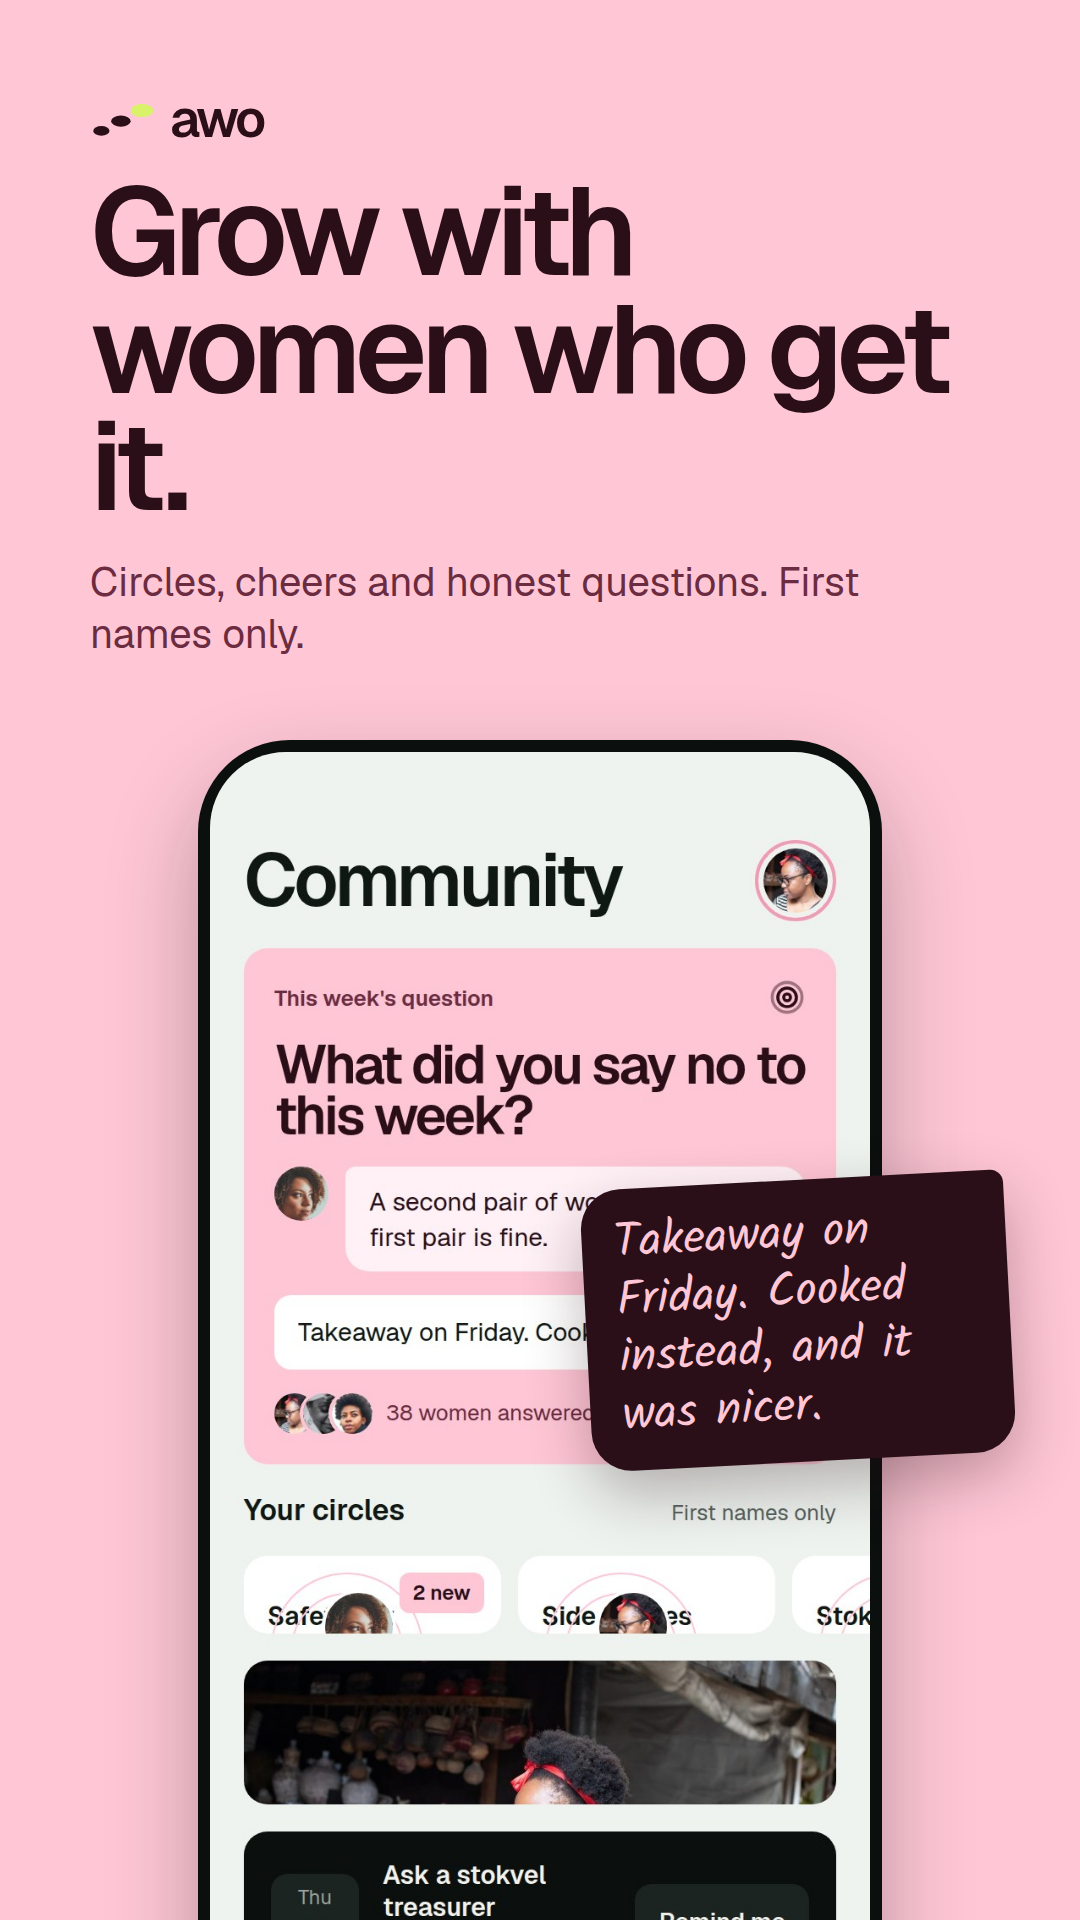
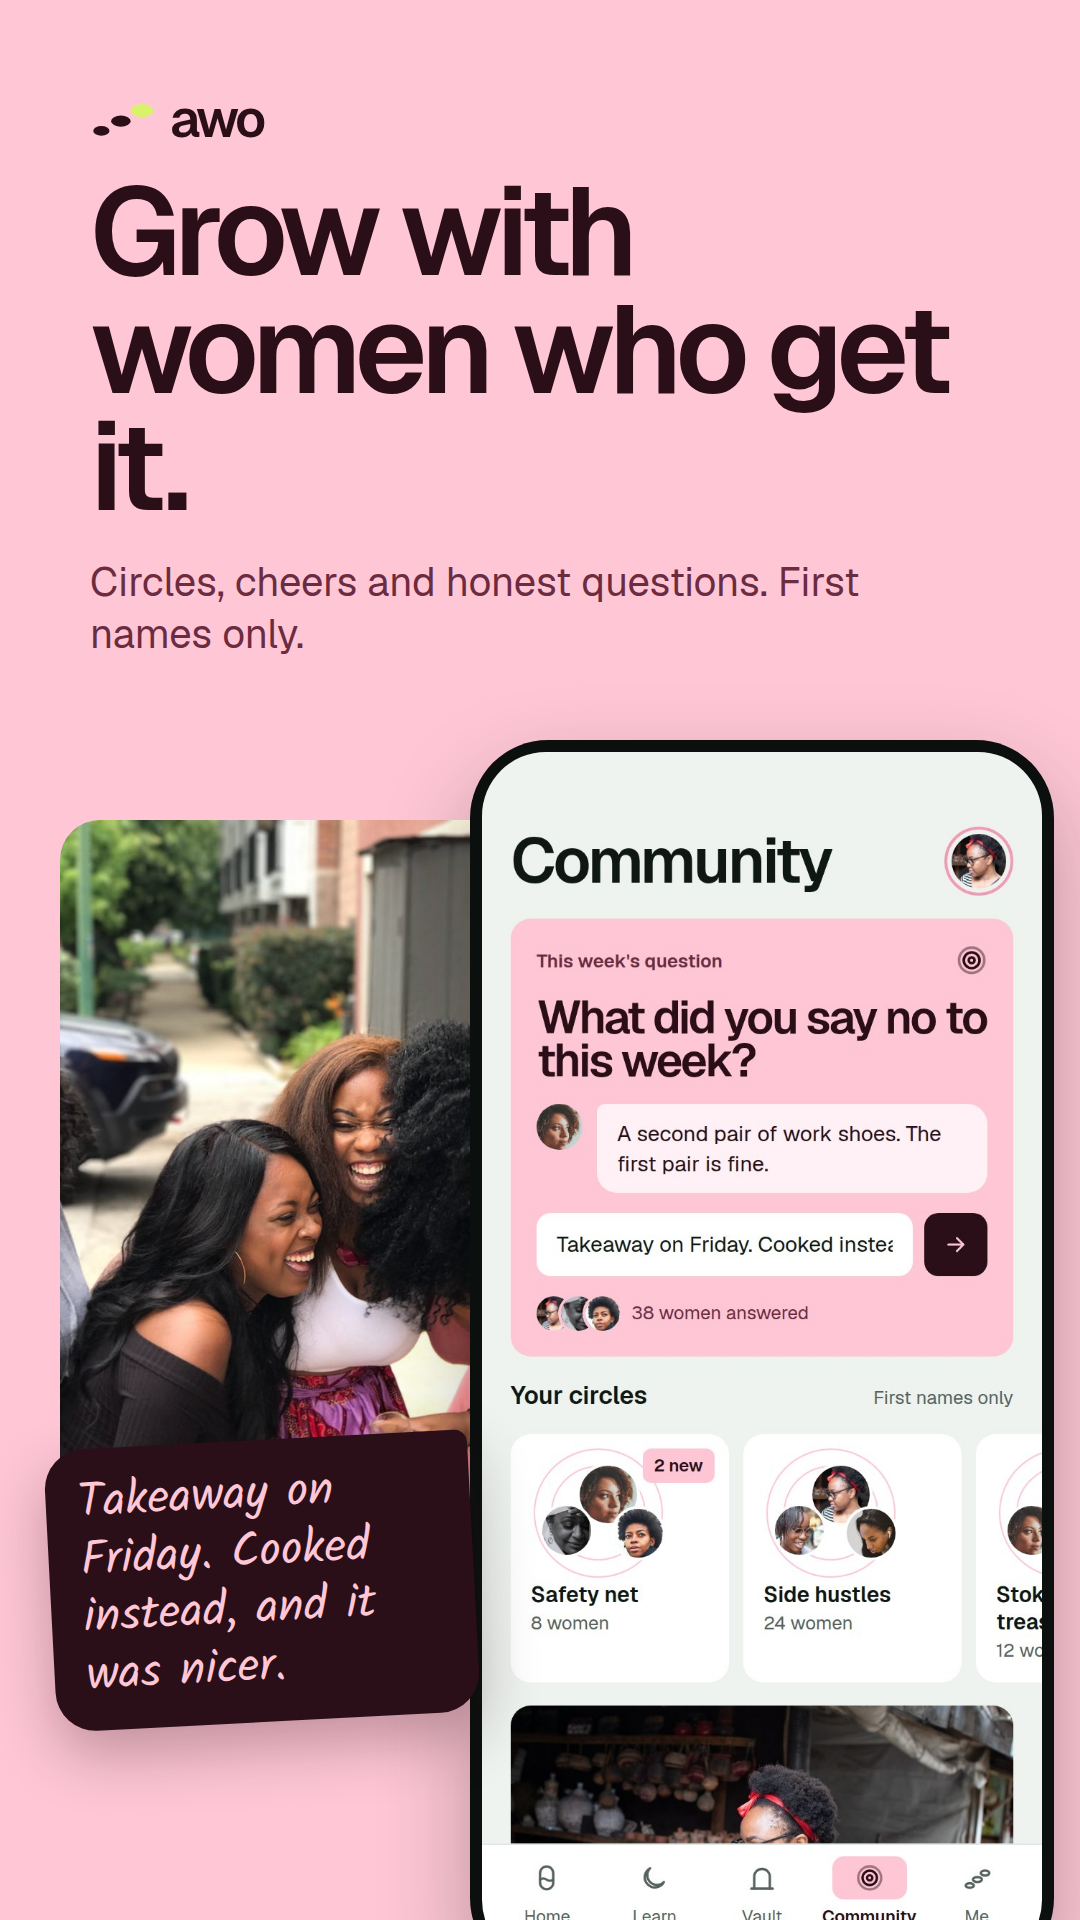
Round 7 marketing: photo-led Community, check-in screenshot, full listing
Adds the Round 3 marketing pieces Ian flagged. Community's store screenshot
now leads with a photo. There is an eighth screenshot for the check-in, and
the listing carries the descriptions, character counts and store rules.
Captures of tall screens no longer squash their sections.

Claude-Session: https://claude.ai/code/session_01DjKBSUnZ7Bfy5fDRc5KkAV

diff --git a/design/round-7/marketing7.py b/design/round-7/marketing7.py
@@ -14,10 +14,10 @@ from brand7 import app_icon, lockup  # noqa: E402
 from screens7 import mark, IMG as IMG7  # noqa: E402,F401
 
 CAPS = {
-    'home': '/_blob/dea500386add2ea29edf312af1e533bd', 'me': '/_blob/98d12ef16b46f90e2fc1a134473e53bc',
-    'learn': '/_blob/8bd5266de4987a831537092e31a8d092', 'vault': '/_blob/69e8bf7aa50a34e03d095eec025e1a74',
-    'community': '/_blob/f45732525d9585201e36b728432660d6', 'ask': '/_blob/ce70f314055c11df2410b014a7b8bc49',
-    'entry': '/_blob/1c34be39cae7eae7ebaa0e16cd349250', 'progress': '/_blob/cc1d7acdf4f9659cf52d325ec96d2659',
+    'home': '/_blob/1fa941cd9884f3e7fea1cd149714b9b1', 'me': '/_blob/e021f8cc79fcae47f5aa3a96e35d3fc9',
+    'learn': '/_blob/8bd5266de4987a831537092e31a8d092', 'vault': '/_blob/881e12c7cdfaa26b1436a7214d97fcd1',
+    'community': '/_blob/aeb8d7a97b251926e044f716c8b216b2', 'ask': '/_blob/ce70f314055c11df2410b014a7b8bc49',
+    'entry': '/_blob/1c34be39cae7eae7ebaa0e16cd349250', 'progress': '/_blob/3150e9b5c622bfec4e0aa9f553c057ff',
     'checkin': '/_blob/455aefd5bdabfa8a10b11eeff60b7eba',
 }
 HF = "font-family: '[[ handFont ]]', cursive"
@@ -31,13 +31,15 @@ def H(size, col, extra=''):
 
 STORE = [
     ('me', POOL, EVG, SEC, LIME, 'Know where you stand.', 'A clear picture of your money life, in plain words. Not a credit score.', 'Your DIVA profile'),
-    ('home', EVG, LIME, ON_EVG, LIME, 'One small step a week.', 'Watch your safety net fill as you go.', 'Home'),
+    ('home', EVG, LIME, ON_EVG, LIME, 'One small step a week.', 'One clear thing to do each week, sized to your life.', 'Home'),
     ('learn', NIGHT, MOON, NMUTED, LIME, 'Learn money in three minutes.', "Short lessons told through real women's stories.", 'Learn'),
     ('vault', LIME, EVG, INK, '#FFFFFF', 'Money words, made clear.', 'Keep the words you learn, and practise them in two minutes.', 'The Vault'),
     ('community', BLUSH, BLUSH_INK, BLUSH_2, LIME, 'Grow with women who get it.', 'Circles, cheers and honest questions. First names only.', 'Community'),
     ('ask', DEEP, MOON, NMUTED, LIME, 'Ask anything. Get plain answers.', 'Ola explains and teaches. It never tells you what to buy.', 'Ask Ola'),
     ('progress', MIST, EVG, SEC, LIME, 'See how far you have come.', 'Check in every 30 days. Each check-in adds a version; old ones never change.', 'Your progress'),
+    ('checkin', POOL, EVG, SEC, LIME, 'Watch your safety net fill.', 'Three quick questions every 30 days. Honest answers, never shared.', 'The 30-day check-in'),
 ]
+PHOTO_TOGETHER = '/_blob/de99957f2ba63a4f30e2cf6bda586b39'  # two women laughing (nappy.co), used on Round 3's store screenshot
 
 
 def hand_hole(html):
@@ -48,9 +50,12 @@ def store(i):
     key, bg, head, sub, accent, title, text, alt = STORE[i]
     dark = bg in (NIGHT, DEEP)
     mark_col = {EVG: '#FFFFFF', NIGHT: MOON, DEEP: MOON}.get(bg, head)
-    extra = ''
+    extra = pre = ''
+    dev_left, dev_w = 198, 660
     if key == 'community':
-        extra = (f'<div style="position: absolute; right: 70px; top: 1180px; z-index: 2; max-width: 360px; padding: 26px 32px; border-radius: {K}px {K // 3}px {K}px {K}px; '
+        dev_left, dev_w = 470, 560
+        pre = f'<img src="{PHOTO_TOGETHER}" alt="Two women laughing together" style="position: absolute; left: 60px; top: 820px; width: 450px; height: 720px; object-fit: cover; object-position: 30% 40%; border-radius: {K}px">'
+        extra = (f'<div style="position: absolute; left: 50px; top: 1440px; z-index: 2; max-width: 360px; padding: 26px 32px; border-radius: {K}px {K // 3}px {K}px {K}px; '
                  f'background: {BLUSH_INK}; color: {BLUSH}; box-shadow: 0 24px 60px rgba(42,15,24,.3); transform: rotate(-3deg)">'
                  f'<span class="hand" style="font-size: 50px; {HF}">Takeaway on Friday. Cooked instead, and it was nicer.</span></div>')
     inner = f'''<div style="position: absolute; left: 90px; right: 90px; top: 96px; display: flex; flex-direction: column; gap: 30px">
@@ -58,7 +63,8 @@ def store(i):
   <h1 style="{H(124, head)}">{title}</h1>
   <p style="font-size: 40px; line-height: 1.3; color: {sub}; max-width: 860px">{text}</p>
 </div>
-<div style="position: absolute; left: 198px; top: 740px">{device(CAPS[key], 660, 'The ' + alt + ' screen', dark=dark)}</div>
+{pre}
+<div style="position: absolute; left: {dev_left}px; top: 740px">{device(CAPS[key], dev_w, 'The ' + alt + ' screen', dark=dark)}</div>
 {extra}'''
     return hand_hole(canvas_board(f'Store screenshot {i + 1}', 1080, 1920, bg, inner))
 
@@ -103,34 +109,52 @@ def hero():
     return canvas_board('Device hero', 1600, 900, MIST, inner)
 
 
+SHORT = 'Learn money in plain words, see where you stand and grow with women who get it.'
+FULL = [('', 'AWO is a free money-learning app for women in Southern Africa and the diaspora.'),
+        ('Know where you stand.', 'A short starter check builds your DIVA profile, explained in plain words. Each check-in makes a new version.'),
+        ('Learn a little every day.', 'Three-minute lessons, a Vault of money words, and Ola, a guide who explains without judging.'),
+        ('Take one step at a time.', 'One clear step each week, and a safety net that fills as you go.'),
+        ('Grow together.', 'Share wins, ask questions and find your circle, from stokvels to side hustles.'),
+        ('', 'AWO is for education. It does not give personal financial advice.')]
+RULES = ['Icon 512 by 512, 32-bit PNG. Feature graphic 1024 by 500, with no transparency.',
+         'Two to eight phone screenshots at 1080 by 1920 (9:16), 24-bit PNG.',
+         'No ranking or promo words (best, top, new) and no install prompts on store graphics.',
+         'Educational wording only. Numbers on screens are samples.']
+
+
 def listing():
+    full_text = '\n\n'.join((h + ' ' + t).strip() for h, t in FULL)
     thumbs = ''.join(
-        f'<div style="width: 150px; height: 272px; border-radius: 12px; background: {bg}; overflow: hidden; position: relative; flex-shrink: 0"><span style="position: absolute; left: 12px; top: 12px; right: 12px; {H(19, head)}">{title}</span>'
-        f'<img src="{CAPS[key]}" alt="" style="position: absolute; left: 20px; top: 82px; width: 110px; border-radius: 12px; box-shadow: 0 0 0 4px #0B0F0E, 0 0 0 5px #2E3A36"></div>'
+        f'<div style="width: 118px; height: 212px; border-radius: 10px; background: {bg}; overflow: hidden; position: relative; flex-shrink: 0"><span style="position: absolute; left: 9px; top: 9px; right: 9px; {H(14, head)}">{title}</span>'
+        f'<img src="{CAPS[key]}" alt="" style="position: absolute; left: 16px; top: 64px; width: 86px; border-radius: 10px; box-shadow: 0 0 0 3px #0B0F0E, 0 0 0 4px #2E3A36"></div>'
         for key, bg, head, _s, _a, title, _t, _al in STORE)
     feat_mini = f'''<div style="width: 512px; height: 250px; border-radius: 14px; background: {EVG}; position: relative; overflow: hidden; flex-shrink: 0"><div style="position: absolute; left: 28px; top: 28px; width: 260px; display: flex; flex-direction: column; gap: 12px">{lockup(22, '#FFFFFF', LIME)}<span style="{H(34, '#FFFFFF')}">Know where you stand. Grow from there.</span>{shapes_row(24, 6)}</div><div style="position: absolute; left: 318px; top: 24px; transform: rotate(-4deg)">{device(CAPS['home'], 130, '')}</div></div>'''
-    chips = ''.join(f'<span class="chip" style="height: 32px; font-size: 14px; background: {bg}; color: {fg}">{t}</span>' for t, bg, fg in [('Free', EVG, '#FFFFFF'), ('Education', '#FFFFFF', EVG), ('English at launch', '#FFFFFF', EVG)])
-    inner = f'''<div style="position: absolute; inset: 64px; display: flex; gap: 64px">
-  <div style="width: 480px; flex-shrink: 0; display: flex; flex-direction: column; gap: 22px">
-    <div style="display: flex; align-items: center; gap: 22px">{app_icon(128)}<div style="display: flex; flex-direction: column; gap: 6px"><span style="{H(64, INK)}">AWO</span><span style="font-size: 20px; color: {SEC}">Money, understood.</span></div></div>
+    chips = ''.join(f'<span class="chip" style="height: 32px; font-size: 14px; background: {bg}; color: {fg}">{t}</span>' for t, bg, fg in [('Education', EVG, '#FFFFFF'), ('Free', '#FFFFFF', EVG), ('English at launch', '#FFFFFF', EVG)])
+    strong = lambda h: f'<strong style="color: {INK}">{h}</strong> ' if h else ''
+    full = ''.join(f'<p style="margin: 0">{strong(h)}{t}</p>' for h, t in FULL)
+    rules = ''.join(f'<span style="display: flex; gap: 10px"><span style="color: {EVG}; display: flex; padding-top: 2px">{icon("check", 16, EVG, 2.6)}</span>{r}</span>' for r in RULES)
+    counter = lambda n, cap: f'<span style="font-size: 13px; color: {MUTED}; font-variant-numeric: tabular-nums">{n} of {cap}</span>'
+    inner = f'''<div style="position: absolute; inset: 64px; display: flex; gap: 56px">
+  <div style="width: 520px; flex-shrink: 0; display: flex; flex-direction: column; gap: 20px">
+    <div style="display: flex; align-items: center; gap: 22px">{app_icon(112)}<div style="display: flex; flex-direction: column; gap: 6px"><span style="{H(56, INK)}">AWO</span><span style="font-size: 19px; color: {SEC}">Money, understood.</span></div></div>
     <div style="display: flex; gap: 8px; flex-wrap: wrap">{chips}</div>
-    <p style="font-size: 22px; line-height: 1.4; font-weight: 600">Money learning and insight for African women, at home and abroad.</p>
-    <div style="display: flex; flex-direction: column; gap: 14px; font-size: 17px; line-height: 1.5; color: {SEC}">
-      <span><strong style="color: {INK}">Know where you stand.</strong> A DIVA profile in plain words, with a new version after every check-in.</span>
-      <span><strong style="color: {INK}">One small step a week,</strong> and a safety net that fills as you go.</span>
-      <span><strong style="color: {INK}">Three-minute lessons,</strong> a vault of money words and circles of women who get it.</span>
-      <span><strong style="color: {INK}">Ask Ola</strong> to explain a result, a word or an offer. It teaches; it never tells you what to buy.</span>
-    </div>
-    <span style="display: flex; align-items: center; gap: 8px; font-size: 15px; color: {SEC}">{icon('lock', 18, EVG)}Your data is stored in South Africa.</span>
+    <div style="border-radius: 14px; background: #FFFFFF; padding: 18px 20px; display: flex; flex-direction: column; gap: 8px">
+      <span style="display: flex; justify-content: space-between"><span style="font-size: 14px; font-weight: 600">Short description</span>{counter(len(SHORT), 80)}</span>
+      <span style="font-size: 18px; line-height: 1.4; font-weight: 500">{SHORT}</span></div>
+    <div style="border-radius: 14px; background: #FFFFFF; padding: 18px 20px; display: flex; flex-direction: column; gap: 10px">
+      <span style="display: flex; justify-content: space-between"><span style="font-size: 14px; font-weight: 600">Full description</span>{counter(len(full_text), '4 000')}</span>
+      <div style="display: flex; flex-direction: column; gap: 10px; font-size: 15px; line-height: 1.5; color: {SEC}">{full}</div></div>
   </div>
-  <div style="flex-grow: 1; display: flex; flex-direction: column; gap: 24px; min-width: 0">
+  <div style="flex-grow: 1; display: flex; flex-direction: column; gap: 18px; min-width: 0">
     <span style="font-size: 15px; font-weight: 600; color: {MUTED}">Feature graphic</span>
     {feat_mini}
     <span style="font-size: 15px; font-weight: 600; color: {MUTED}">Screenshots</span>
-    <div style="display: flex; gap: 12px">{thumbs}</div>
+    <div style="display: flex; gap: 10px">{thumbs}</div>
+    <div style="border-radius: 14px; background: #FFFFFF; padding: 18px 20px; display: flex; flex-direction: column; gap: 10px; font-size: 15px; line-height: 1.45; color: {SEC}">
+      <span style="font-size: 14px; font-weight: 600; color: {INK}">Store rules these drafts follow</span>{rules}</div>
   </div>
 </div>'''
-    return canvas_board('Store listing (our own layout)', 1720, 820, MIST, inner)
+    return canvas_board('Store listing (our own layout)', 1720, 1000, MIST, inner)
 
 
 def ad_photo():

diff --git a/design/round-7/README.md b/design/round-7/README.md
@@ -9,7 +9,7 @@ Round 7 is Round 6 with three changes, applied as a transform so the two rounds 
 | `screens7.py` | Screens Round 6 never had, from Round 3's set: `R7-Entry` (photo-led welcome), `R7-Goals`, `R7-Progress`, `R7-Checkin`, `R7-Buddy`, `R7-Settings` |
 | `kit7.py` | `R7-Components` (controls) and `R7-Data` (data and feedback). `R7-Widgets` is Round 6's widgets board through the transform |
 | `brand7.py` | `R7-Brand` (app icon A, the wordmark in Geist), `R7-Icons`, `R7-Motion` (M1 to M6, live), `R7-Foundations` |
-| `marketing7.py` | `R7-Store-1…7`, `R7-Listing`, `R7-Feature-Graphic`, `R7-App-Icon`, `R7-Hero-Device`, `R7-Ad-Photo`, `R7-Ad-Pool`, `R7-Ad-Word`, `R7-Ad-Story`, from 2x captures of the Round 7 screens (`CAPS`). Exports live in `design/marketing/round-7/` |
+| `marketing7.py` | `R7-Store-1…8`, `R7-Listing`, `R7-Feature-Graphic`, `R7-App-Icon`, `R7-Hero-Device`, `R7-Ad-Photo`, `R7-Ad-Pool`, `R7-Ad-Word`, `R7-Ad-Story`, from 2x captures of the Round 7 screens (`CAPS`). Exports live in `design/marketing/round-7/` |
 | `typeboard.py` | `R7-Type`: Geist's scale, the handwriting candidates with a live switcher, and the corners, each with a Round 6 comparison |
 
 ```sh
@@ -19,3 +19,5 @@ python3 typeboard.py /path/to/project
 ```
 
 Change a Round 6 screen, rerun both rounds, and the comparison stays fair. `moments()` asserts each anchor exists, so a Round 6 wording change fails loudly instead of silently losing a moment.
+
+**Capturing screens for marketing:** render each screen at 390 by 844 with a device scale of 2. For a taller screen, first set `flex-shrink: 0` on every child of `.scr`, then set the board to 844px tall. Without the first step its sections squash to fit. Save the captures as JPEG, upload them to the canvas's image store, and update `CAPS`.

diff --git a/docs/CHANGELOG.md b/docs/CHANGELOG.md
@@ -6,6 +6,10 @@
 
 ## 2026-09-25
 
+### Round 7 marketing: the Round 3 pieces Ian flagged
+- Ian's screenshots showed three sections: Play Store screenshots, the listing with feature graphic, icon and device hero, and campaign ads, from Rounds 3 and 6. All three now sit on page `r7`. Three Round 3 pieces were still missing, and are now added in Round 7 style: the photo-led Community screenshot (a real photo beside the phone, her answer in her hand), an eighth screenshot for the check-in ("Watch your safety net fill."), and the listing's short and full descriptions with character counts and the store rules they follow.
+- Fixed the screen captures: cutting a tall screen to 844px had squashed its sections, most visibly the Community circle cards. The captures now switch off flex shrinking first. Five captures were re-uploaded, and the superseded uploads were deleted.
+
 ### Round 7 marketing in Geist, and the full board complete
 - Marketing moved to Round 7 (T-076, D-033), built from 2x captures of the Round 7 screens: seven store screenshots (Progress is new), the listing, the feature graphic, a 512 app icon, the device hero, and photo, pool, word and story ads. Exports are in `design/marketing/round-7/`.
 - The stepping-stones lockup replaces the Bricolage wordmark everywhere. Corners scale with the canvas (14 becomes 40 at 1080). The hand appears only in members' own words: her answer on the Community screenshot and Amara's line on the story ad.

diff --git a/docs/TASKS.md b/docs/TASKS.md
@@ -75,4 +75,4 @@ Round 7 is on canvas page `r7` ([13](00-discovery/13-round-7.md)): the Round 6 s
 | T-077 | Round 7 on canvas page `r7`: type and corners board, nine screens transformed (Geist, handwritten moments, 6/10/14 corners), a `hand` Tweak on each; generator in `design/round-7/` | 2026-09-25 |
 | T-078 | Round 7 Vault, Me and Community redesigned natively (`design/round-7/areas7.py`): shape-led heroes, one job each, detail one tap deeper | 2026-09-25 |
 | T-079 | Round 7 full board, batches A to C: brand, icons, motion, foundations; photo welcome, goals, progress, check-in, buddy, settings; components, data and feedback, widgets (D-034) | 2026-09-25 |
-| T-076 | Marketing in Round 7 type: seven store screenshots, listing, feature graphic, 512 icon, device hero, four ads; PNGs in `design/marketing/round-7/` (D-033) | 2026-09-25 |
+| T-076 | Marketing in Round 7 type: eight store screenshots (a photo-led Community one and the check-in, as in Round 3), a listing with descriptions and store rules, feature graphic, 512 icon, device hero, four ads; PNGs in `design/marketing/round-7/` (D-033) | 2026-09-25 |

diff --git a/docs/00-discovery/13-round-7.md b/docs/00-discovery/13-round-7.md
@@ -96,7 +96,7 @@ Unchanged: the rules. Results, scores and AI text stay typeset; the hand appears
 | The app | Welcome (photo-led), Welcome (three slides), What brings you here, Starter check, Home, Learn, Ask, Vault, Community, Me |
 | Inside the areas | Your progress, the 30-day check-in, Your buddy, Settings |
 | Components and widgets | Components (controls), Data and feedback, Widgets |
-| Marketing | Seven store screenshots, the listing, the feature graphic, the 512 icon, the device hero and four ads |
+| Marketing | Eight store screenshots (Community is photo-led; the check-in is new), the listing with descriptions and store rules, the feature graphic, the 512 icon, the device hero and four ads |
 
 **The screens link up:**
 - The photo-led welcome leads to "What brings you here", then the starter check.

diff --git a/design/marketing/round-7/README.md b/design/marketing/round-7/README.md
@@ -4,7 +4,7 @@ These are exported from the Round 7 boards on the canvas (page Round 7), built f
 
 | File | Size | Use |
 |---|---|---|
-| `store-1-me.png` … `store-7-progress.png` | 1080 × 1920 | Google Play phone screenshots, one per area (plus progress), each in its area's colour |
+| `store-1-me.png` … `store-8-checkin.png` | 1080 × 1920 | Google Play phone screenshots (the store allows eight): one per area, plus progress and the check-in. Community is photo-led |
 | `feature-graphic-1024x500.png` | 1024 × 500 | Google Play feature graphic |
 | `app-icon-512.png` | 512 × 512 | Store icon (icon A, full bleed; the store applies its own mask) |
 | `device-hero.png` | 1600 × 900 | Website or press hero |
